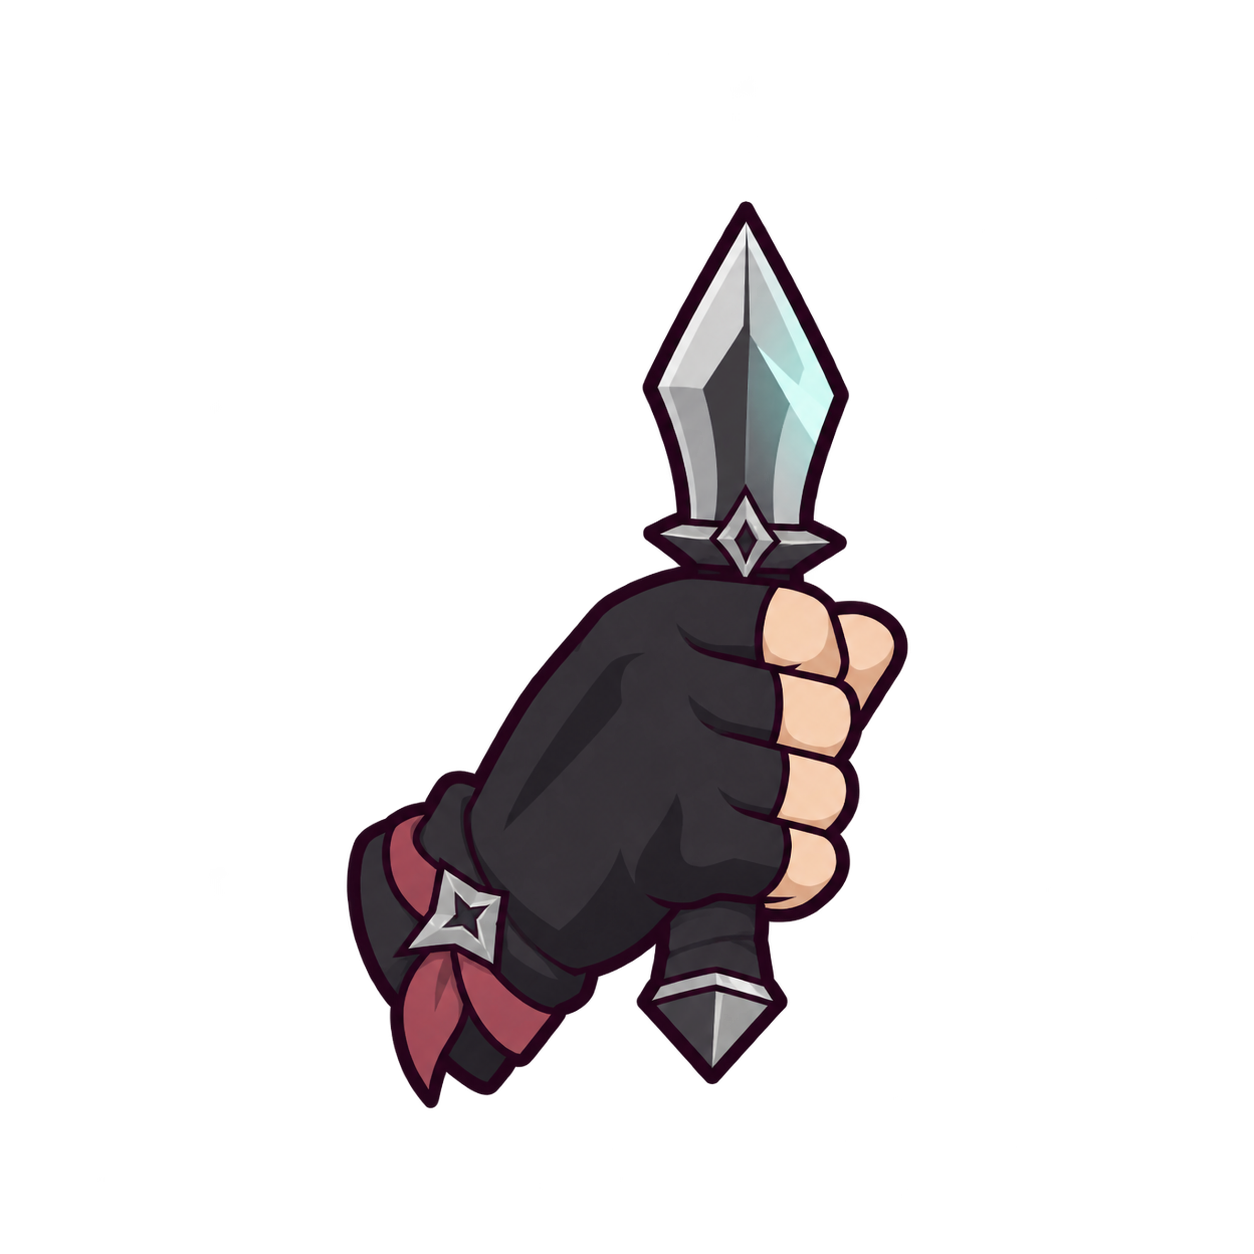
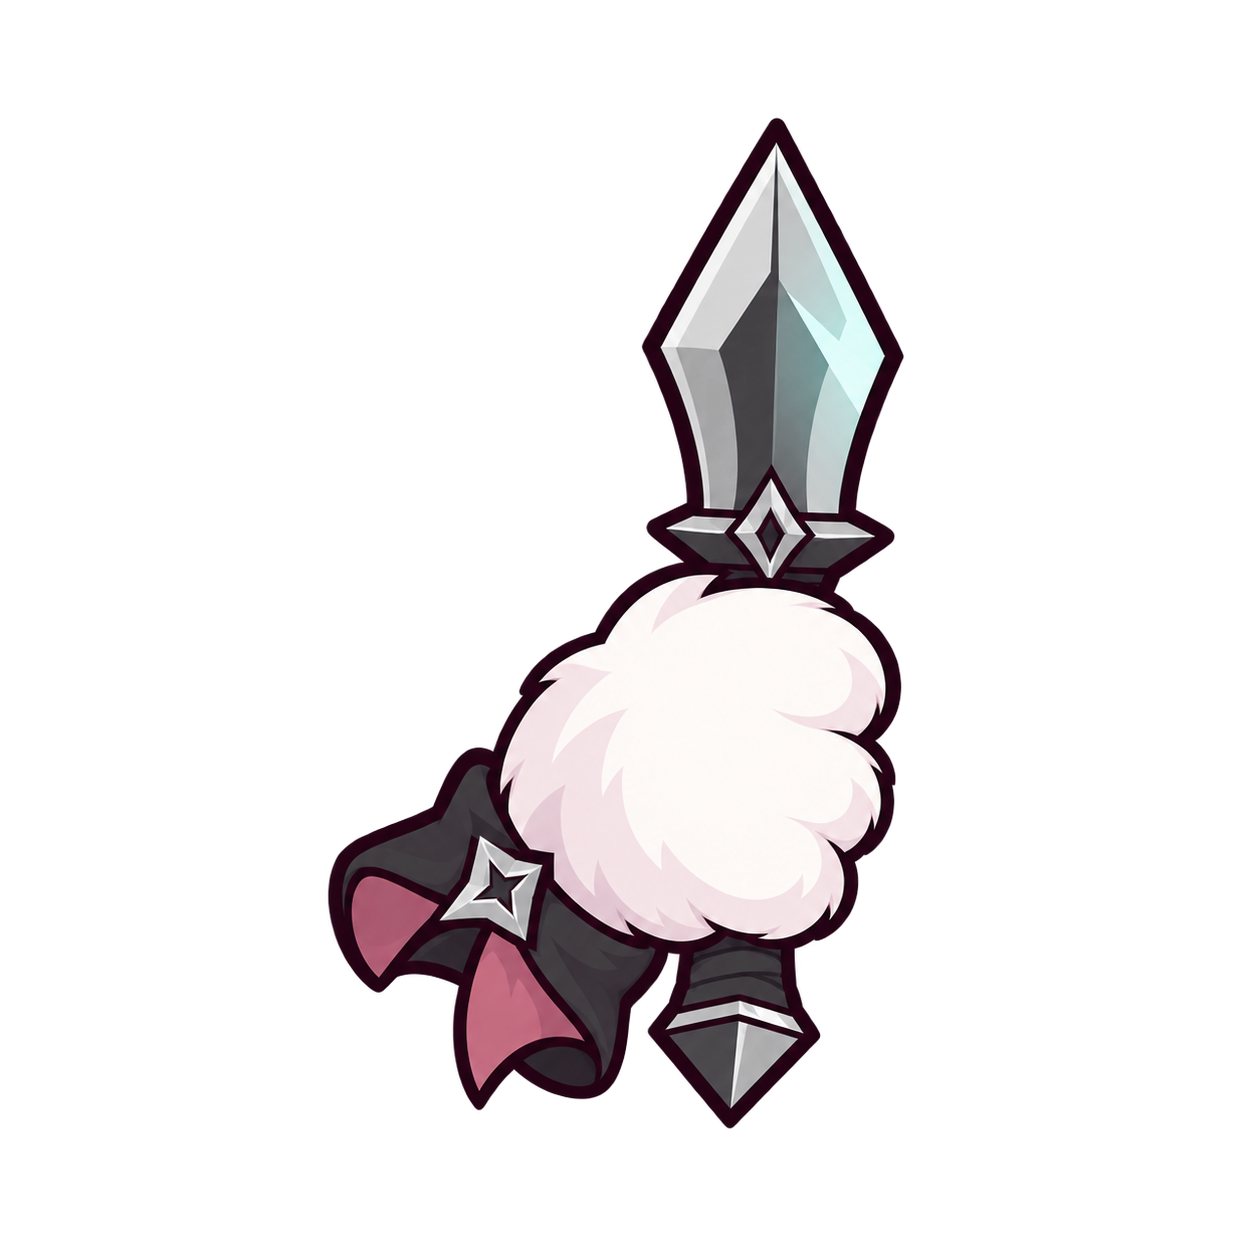
Match knife card to rogue mascot

Changed region(s): [[0.2488, 0.0933, 0.7464, 0.9019]]

diff --git a/docs/RogueCardImages.md b/docs/RogueCardImages.md
@@ -5,6 +5,6 @@
 - `Throw.png`：飛刀與動作軌跡。
 - `Shadow.png`：白色垂耳狗向飛刀突進。
 - `Whirl.png`：白色垂耳狗旋身攻擊。
-- `Knife.png`：手持短刀。
+- `Knife.png`：白色狗掌握著短刀。
 
-`Shadow.png` 與 `Whirl.png` 參照棋盤角色 `assets/characters/rogue/Token.png`，讓牌面動作和棋盤小人能被辨認為同一角色。
+`Shadow.png`、`Whirl.png` 與 `Knife.png` 參照棋盤角色 `assets/characters/rogue/Token.png`，讓牌面動作和棋盤小人能被辨認為同一角色。
